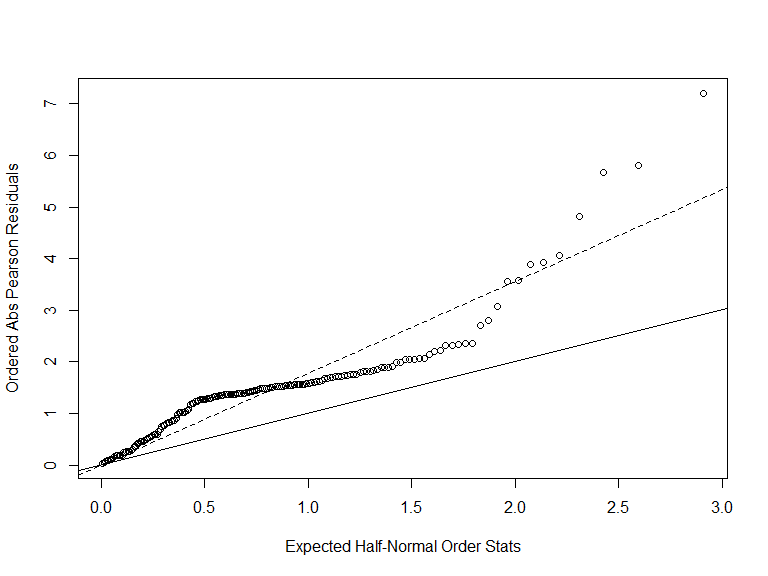
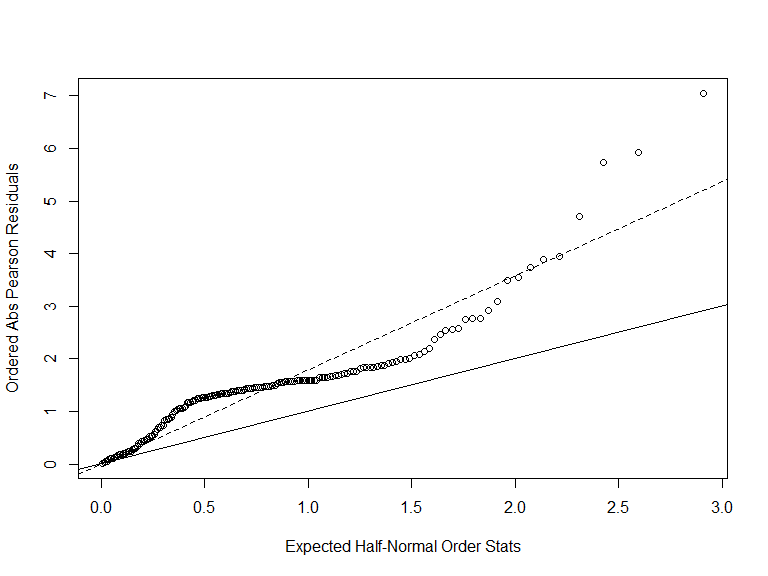
further analysis on problem 1

diff --git a/p8131_hw5_jsg2145.md b/p8131_hw5_jsg2145.md
@@ -3,6 +3,8 @@ p8131\_hw5\_jsg2145
 Jared Garfinkel
 3/7/2020
 
+## Problem 1
+
 ``` r
 crab_df = read_table2("./data/HW5-crab.txt") %>% 
   janitor::clean_names()
@@ -17,6 +19,19 @@ crab_df = read_table2("./data/HW5-crab.txt") %>%
     ##   Wt = col_double(),
     ##   Sa = col_double()
     ## )
+
+This dataset is 173 by 6. It gives information about female crabs like
+the average weight is 2.44. Other variables like carapace width, color,
+and the condition of the spine. The response variable is the number of
+satellite male crabs around one’s nest.
+
+``` r
+crab_df %>% 
+  ggplot(aes(x = sa)) +
+  geom_histogram(binwidth = 1)
+```
+
+<img src="p8131_hw5_jsg2145_files/figure-gfm/unnamed-chunk-2-1.png" width="90%" />
 
 ``` r
 M1 <- glm(sa ~ w, family = poisson(link = log), 
@@ -46,6 +61,40 @@ summary(M1)
     ## AIC: 927.18
     ## 
     ## Number of Fisher Scoring iterations: 6
+
+The rate ratio of the number of satellite males around one’s nest is
+1.18. This indicates that the number of satellites increases as the
+width of the female increases. Next, we check for over-dispersion.
+
+``` r
+res.p1 = residuals(M1, type = "pearson", data = crab_df)
+G1 = sum(res.p1^2)
+pval = 1 - pchisq(G1, df = 170) # low p-value indicates a lack of fit
+phi1 = G1 / (170)
+phi1
+```
+
+    ## [1] 3.200924
+
+``` r
+M1$deviance/M1$df.residual
+```
+
+    ## [1] 3.320927
+
+``` r
+plot(qnorm((173+1:173+0.5)/(2*173+1.125)),
+     sort(abs(res.p1)), 
+     xlab = 'Expected Half-Normal Order Stats',
+     ylab='Ordered Abs Pearson Residuals')
+abline(a=0, b=1)
+abline(a=0, b=sqrt(phi1), lty=2)
+```
+
+<img src="p8131_hw5_jsg2145_files/figure-gfm/unnamed-chunk-5-1.png" width="90%" />
+
+There appears to be overdispersion indicating the data may not follow
+the theoretical distribution.
 
 ``` r
 M2 <- glm(sa ~ w + wt, 
@@ -78,12 +127,18 @@ summary(M2)
     ## 
     ## Number of Fisher Scoring iterations: 6
 
+A second model is proposed including the width of the carapace and the
+weight of the females. In this model, the rate ratio is 1.05 with each
+unit increase in width holding the weight constant. The rate ratio for
+male satellites is 1.56 for each unit increase in weight holding width
+constant.
+
 ``` r
 res.p2 = residuals(M2, type = "pearson", data = crab_df)
 G2 = sum(res.p2^2)
 pval = 1 - pchisq(G2, df = 170)
-phi = G2 / (170)
-phi
+phi2 = G2 / (170)
+phi2
 ```
 
     ## [1] 3.156449
@@ -96,7 +151,7 @@ M2$deviance/M2$df.residual
 
 ``` r
 summary(M2,
-        dispersion = phi)
+        dispersion = phi2)
 ```
 
     ## 
@@ -127,7 +182,93 @@ plot(qnorm((173+1:173+0.5)/(2*173+1.125)),
      xlab = 'Expected Half-Normal Order Stats',
      ylab='Ordered Abs Pearson Residuals')
 abline(a=0, b=1)
-abline(a=0, b=sqrt(phi), lty=2)
+abline(a=0, b=sqrt(phi2), lty=2)
 ```
 
-<img src="p8131_hw5_jsg2145_files/figure-gfm/unnamed-chunk-5-1.png" width="90%" />
+<img src="p8131_hw5_jsg2145_files/figure-gfm/unnamed-chunk-8-1.png" width="90%" />
+
+This model also appears to show overdispersion. After adjusting for
+overdispersion, it appears the predictors become insignificant in the
+model. This indicates that the variance of the predictors may be due to
+something else, not association with the response variable.
+
+``` r
+test.stat = M1$deviance - M2$deviance # deviance (from original model fitting)
+df = 171 - 170
+res.p = residuals(M2, type = "pearson")  
+res.p 
+```
+
+    ##           1           2           3           4           5           6 
+    ##  2.04319095  0.64534985 -1.52599847 -1.28398441 -1.49422552  0.37090999 
+    ##           7           8           9          10          11          12 
+    ## -1.27922978 -1.48497616  3.92992264  1.01589131  1.01556263  0.19747960 
+    ##          13          14          15          16          17          18 
+    ## -1.07516295  1.88568574  0.27509594  1.98129251  1.81003944  0.19741617 
+    ##          19          20          21          22          23          24 
+    ##  2.30917732  1.02165940 -1.88521235  0.25017544 -1.33010442 -2.07237368 
+    ##          25          26          27          28          29          30 
+    ## -0.82806803 -0.55563033 -1.34369497  0.87190683 -0.14465226 -1.18796772 
+    ##          31          32          33          34          35          36 
+    ## -1.26780757 -1.57084989  2.31074055  4.81106397  1.31248096 -0.86629833 
+    ##          37          38          39          40          41          42 
+    ##  3.88655479  2.36637827 -1.26825475  0.08501654  0.30660570 -1.55026305 
+    ##          43          44          45          46          47          48 
+    ## -0.24146485 -1.62913080 -1.24268733 -1.44795873 -1.48114464  7.19786661 
+    ##          49          50          51          52          53          54 
+    ## -1.51161815 -0.46090951 -0.58542235 -0.19734753  1.05505114 -1.37194798 
+    ##          55          56          57          58          59          60 
+    ##  1.73289789  1.55797690  1.90437105  1.90156558 -1.83559283  0.09497409 
+    ##          61          62          63          64          65          66 
+    ##  2.70558673  2.20149369 -1.39736851 -1.23665711 -1.28842100 -1.99480673 
+    ##          67          68          69          70          71          72 
+    ## -0.41355012 -1.25991676 -0.84010995 -1.16958108 -1.03012347 -0.59145775 
+    ##          73          74          75          76          77          78 
+    ## -1.42506673  1.54956541 -1.57157546 -0.60053882  2.79404131  1.59023683 
+    ##          79          80          81          82          83          84 
+    ##  2.35899143 -0.42936642 -0.89926800  0.27220046 -1.40702217 -1.35396786 
+    ##          85          86          87          88          89          90 
+    ##  2.05699911 -1.36332169 -1.79117885  4.05840383 -1.41349497 -1.71445914 
+    ##          91          92          93          94          95          96 
+    ##  2.34605012  0.98137013 -0.57521350  1.04450906 -1.69538825 -1.36605965 
+    ##          97          98          99         100         101         102 
+    ##  1.36442416  0.10653092  1.19908342  0.74619083  5.67550765 -1.55694538 
+    ##         103         104         105         106         107         108 
+    ##  1.70653248 -1.63615309 -0.50754055 -1.26825475  1.85983112  0.70003062 
+    ##         109         110         111         112         113         114 
+    ## -1.74121778 -1.71544908 -1.38398011 -1.46567669  0.81213971 -1.55045618 
+    ##         115         116         117         118         119         120 
+    ##  1.81660225 -1.35086419  1.81660225  0.19223247  2.05631373 -1.39497036 
+    ##         121         122         123         124         125         126 
+    ## -1.51857213  1.60612603 -1.43226559 -0.05455160 -1.59995583  1.36899191 
+    ##         127         128         129         130         131         132 
+    ## -0.51302322 -1.52950451 -0.26717044 -1.75446178 -1.48157219 -1.39696526 
+    ##         133         134         135         136         137         138 
+    ##  3.57129387 -0.77823355  1.51536705  0.54127986 -1.76283818 -1.47902953 
+    ##         139         140         141         142         143         144 
+    ## -1.75425925 -0.44977886  2.22820618 -0.45179533  1.53736178 -0.11470365 
+    ##         145         146         147         148         149         150 
+    ## -1.72730019 -1.32852398 -1.28806729 -1.32933686  0.36889902 -1.52162187 
+    ##         151         152         153         154         155         156 
+    ## -1.58533606 -1.37510008 -1.67365225 -1.55694538 -1.37742082 -0.77823355 
+    ##         157         158         159         160         161         162 
+    ## -0.03750934 -1.51249096  3.55781807  3.07745197 -0.28590212 -0.17196504 
+    ##         163         164         165         166         167         168 
+    ##  0.19060086  0.47170029 -1.68525241 -1.62120256  5.79826041 -1.39336083 
+    ##         169         170         171         172         173 
+    ## -2.05343715  0.82616622  2.14732731 -0.06598824 -1.43885452
+
+``` r
+G = sum(res.p^2) # calc dispersion param based on larger model
+phi = G / 170
+F.stat = test.stat / (df * phi)
+pval = 1 - pf(F.stat, df, 170)
+pval
+```
+
+    ## [1] 0.1133882
+
+A p-value above 0.05 (p = 0.113) means we do not reject the null, and
+therefore we accept the smaller model.
+
+## Problem 2
